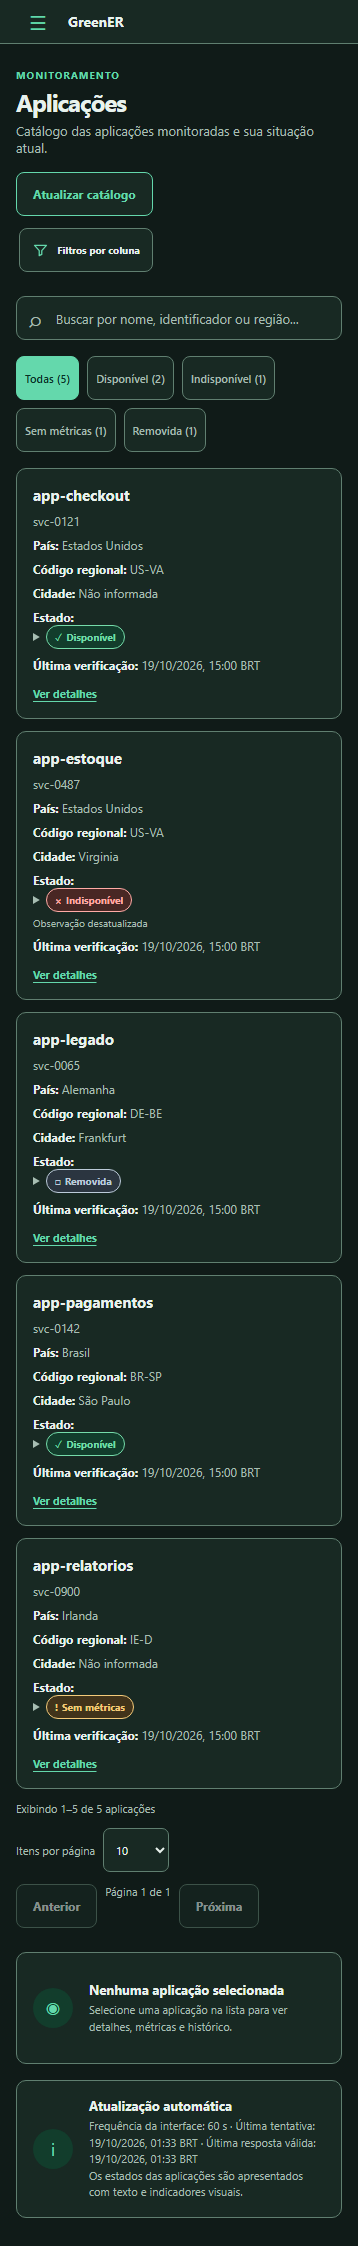
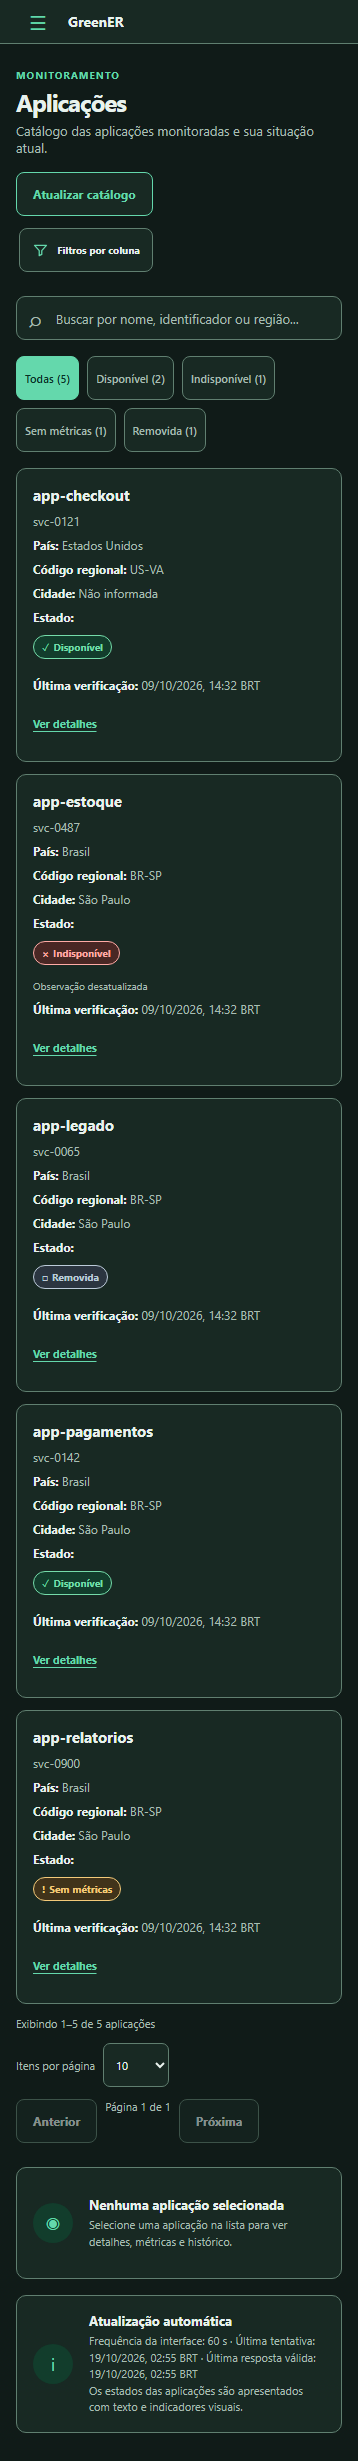
docs(frontend): registrar validação visual do detalhe
Refs #65

diff --git a/.github/evidencias/65-detalhe-ambiental/README.md b/.github/evidencias/65-detalhe-ambiental/README.md
@@ -1,25 +1,50 @@
-# Evidências visuais — #65 detalhe ambiental
+# Evidências visuais — #65 detalhe ambiental
 
-## Catálogo (validação independente)
+## Capturas
 
-Capturas pós-refactor em Chromium com locale `pt-BR`, fuso `America/Sao_Paulo` e viewport desktop `1366 × 988` / mobile `358 × 844`. A captura mobile usa página inteira; o conteúdo tem cerca de 2246 px de altura com os cinco registros simulados.
+As capturas foram feitas em Chromium com `pt-BR`, fuso `America/Sao_Paulo`, shell de produção e a fixture explícita `design-review` do harness. O viewport desktop é `1366 × 988`; o mobile é `358 × 844`. O harness forneceu série com zero, lacuna e ponto posterior, dados de fatores/metodologia/composição e granularidade. As chamadas públicas da aplicação e da coleta operacional foram mockadas com respostas estáveis; a coleta mostrou CPU `38%`, memória `12,5 GB`, disco `0 GB/s` disponível e rede `1,2 Mbps`. Essas imagens demonstram renderização controlada, não integração ou precisão da API.
+
+Detalhe:
+
+- `detalhe-desktop-claro.png`
+- `detalhe-desktop-escuro.png`
+- `detalhe-mobile-claro.png`
+- `detalhe-mobile-escuro.png`
+
+Catálogo, recapturado após os alvos acessíveis de mobile:
 
 - `catalog-desktop-claro.png`
 - `catalog-desktop-escuro.png`
 - `catalog-mobile-claro.png`
 - `catalog-mobile-escuro.png`
 
-O endpoint público `/api/applications` recebeu uma resposta mockada estável com cinco registros representando estados disponíveis, indisponíveis, sem métricas e removidos. Datas foram fixadas em 19/10/2026. Isso valida apresentação, não integrações nem dados operacionais; nenhum fixture foi adicionado ao runtime. A evidência do detalhe será complementada quando sua implementação estiver estável.
+## Revisão do detalhe
 
-### Verificações no browser
+- No desktop, a área principal começa em `(250, 12)` e mede `1104 px` de largura. O cabeçalho ocupa `105 px`; os quatro KPIs ficam em uma linha, com cartões de `252 px`, espaçamento de `16 px`, começando em `y=149`. O seletor de período fica ao lado do título e seus botões têm `44 px` de altura.
+- No mobile, a área principal mede `358 px` sem overflow horizontal. Cabeçalho e seletor empilham; período e KPIs ficam em grades `2 × 2`. Cada botão de período tem `44 px`. O restante do detalhe vira uma coluna e os gráficos continuam legíveis.
+- Os gráficos de energia e CO₂e ficam empilhados em cartões largos. Eixos e unidades permanecem visíveis. A série preserva zero, lacuna e leitura posterior sem desenhar uma conexão que atravesse o dado ausente; a tabela apresenta as três leituras.
+- A alternância gráfico/tabela funciona por teclado (`Space`); período e granularidade respondem a `Enter`. O foco visível foi observado no controle de tabela e de período. Controles visíveis do detalhe medidos na matriz têm pelo menos `44 px` de altura.
+- Os temas usam os tokens existentes. Claro: página `#f4faf7`, cartão `#ffffff`, texto `#17332d`. Escuro: página `#101b18`, cartão `#182923`, texto `#e8f2ed`. A imagem e a revisão visual mostram texto legível em ambos.
+- O detalhe contém bastante conteúdo e ocupa aproximadamente `3380 px` de altura desktop na fixture completa, contra `1406 px` de altura no metadata do frame escuro. Fatores, snapshots, metodologia, composição, frescor, evidências operacionais e localização explicam parte da diferença. Não foi ocultado resultado ou proveniência para encurtar a página; esta rodada não introduziu disclosures adicionais.
 
-- Desktop: shell em `(12,12)`, `1342 × 964`; sidebar expandida com `222 px`, colapsada com `72 px`; topbar horizontal oculta. Tabela e sete cabeçalhos visíveis.
-- Mobile: largura de documento igual ao viewport (`358 px`); tabela substituída pelos cards; menu com alvo `44 × 44 px`, controles de idioma e tema visíveis, menu fecha com `Escape`.
-- Os temas aplicaram tokens esperados: claro `--background-page #f4faf7` / `--surface-card #ffffff`; escuro `#101b18` / `#182923`. O foco da busca mostra outline de `3 px` com offset `3 px` nos dois temas.
-- Espaçamentos autorais revistos nos estilos compartilhados e de catálogo estão em múltiplos de `4 px`; bordas, raios, tipografia, ícones e offsets de foco são exceções visuais.
+O CSS fluido foi removido dos paddings responsivos para manter a escala solicitada em passos de `4 px`. Em `1024 px`, Playwright mediu `24 px` no detalhe; os breakpoints agora usam passos fixos. Os extremos da matriz visual permanecem iguais: detalhe `24 px` desktop e `16 px` mobile; conteúdo compartilhado `48 px` desktop e `16 px` mobile. Bordas, raios, tipografia, dimensões de glifos/SVG, offsets de foco e valores definidos por conteúdo ou por breakpoints são exceções técnicas/ópticas, não espaçamentos autorais contínuos.
 
-### Comparação com a referência
+## Referências Figma e limite da comparação
 
-O catálogo escuro foi conferido com a proposta Figma #213 disponível localmente em [aplicacoes-escuro-desktop.png](../213-temas/aplicacoes-escuro-desktop.png) e [aplicacoes-escuro-mobile.png](../213-temas/aplicacoes-escuro-mobile.png). Proporções do shell, sidebar, tabela/cards e paleta semântica estão alinhadas. O layout atual conserva ações de atualização e filtros por coluna e apresenta paginação/estado de atualização, além dos elementos do protótipo.
+Os metadados/contextos dos frames foram consultados anteriormente; a cota Figma impediu nova consulta nesta validação. Os links apontam para as referências existentes no arquivo:
 
-A coluna de estado mantém motivo e última observação em disclosure nativo, fechado por padrão, com indicação de dado stale visível; esse detalhe operacional não aparece no screenshot do Figma. Os registros de captura são demonstração visual. A validação não cobre detalhe ambiental, precisão de dados da API, navegação completa nem textos dos outros sete idiomas.
+- [Detalhe claro desktop — node 150:1105](https://www.figma.com/design/bbt97My6jOZpJVYxbOc9T2?node-id=150-1105): `1366 × 850`, cabeçalho perto de `96 px`, indicadores começando perto de `y=117`, cerca de `1042 × 160`, cartões de aproximadamente `248/249 px` e gap `16 px`.
+- [Detalhe claro mobile — node 150:1403](https://www.figma.com/design/bbt97My6jOZpJVYxbOc9T2?node-id=150-1403).
+- [Detalhe escuro desktop — node 363:19084](https://www.figma.com/design/bbt97My6jOZpJVYxbOc9T2?node-id=363-19084): metadata com altura `1406 px`.
+- [Detalhe escuro mobile — node 363:19401](https://www.figma.com/design/bbt97My6jOZpJVYxbOc9T2?node-id=363-19401).
+- O catálogo escuro foi comparado às capturas locais da proposta [desktop](../213-temas/aplicacoes-escuro-desktop.png) e [mobile](../213-temas/aplicacoes-escuro-mobile.png).
+
+As capturas originais do detalhe no Figma não estão disponíveis como arquivos locais; portanto a comparação do detalhe é por metadata/contexto e medidas observadas, não uma comparação visual pixel a pixel. Na implementação, os indicadores começam em `y=149` e têm `176 px` de altura — aproximadamente `32 px` abaixo e `16 px` mais altos que o metadata do frame claro; os cartões têm `252 px`, cerca de `4 px` mais largos. A referência não foi tratada como aprovada pixel-perfect.
+
+## Catálogo: navegação e alvos
+
+O catálogo preserva a topbar horizontal oculta em desktop, inset do shell, navegação lateral e cores semânticas. No mobile, menu, idioma e tema permanecem acessíveis; a largura do documento acompanha o viewport. Após a correção, o disclosure nativo de estado e cada link `Ver detalhes` medem no mínimo `44 px`; `Shift+Tab` alcança o disclosure, `Enter` o abre e o link subsequente também recebe foco e navega.
+
+## Escopo desta evidência
+
+As imagens documentam uma revisão visual com fixtures controladas. Não verificam contrato real da API, responsividade em todos os intermediários, precisão dos cálculos ambientais nem paridade pixel a pixel com os frames Figma. A validação de `1024 px` nesta rodada mediu o padding calculado (`24 px`) e ausência de overflow no detalhe; as capturas finais foram mantidas nos extremos desktop/mobile.
